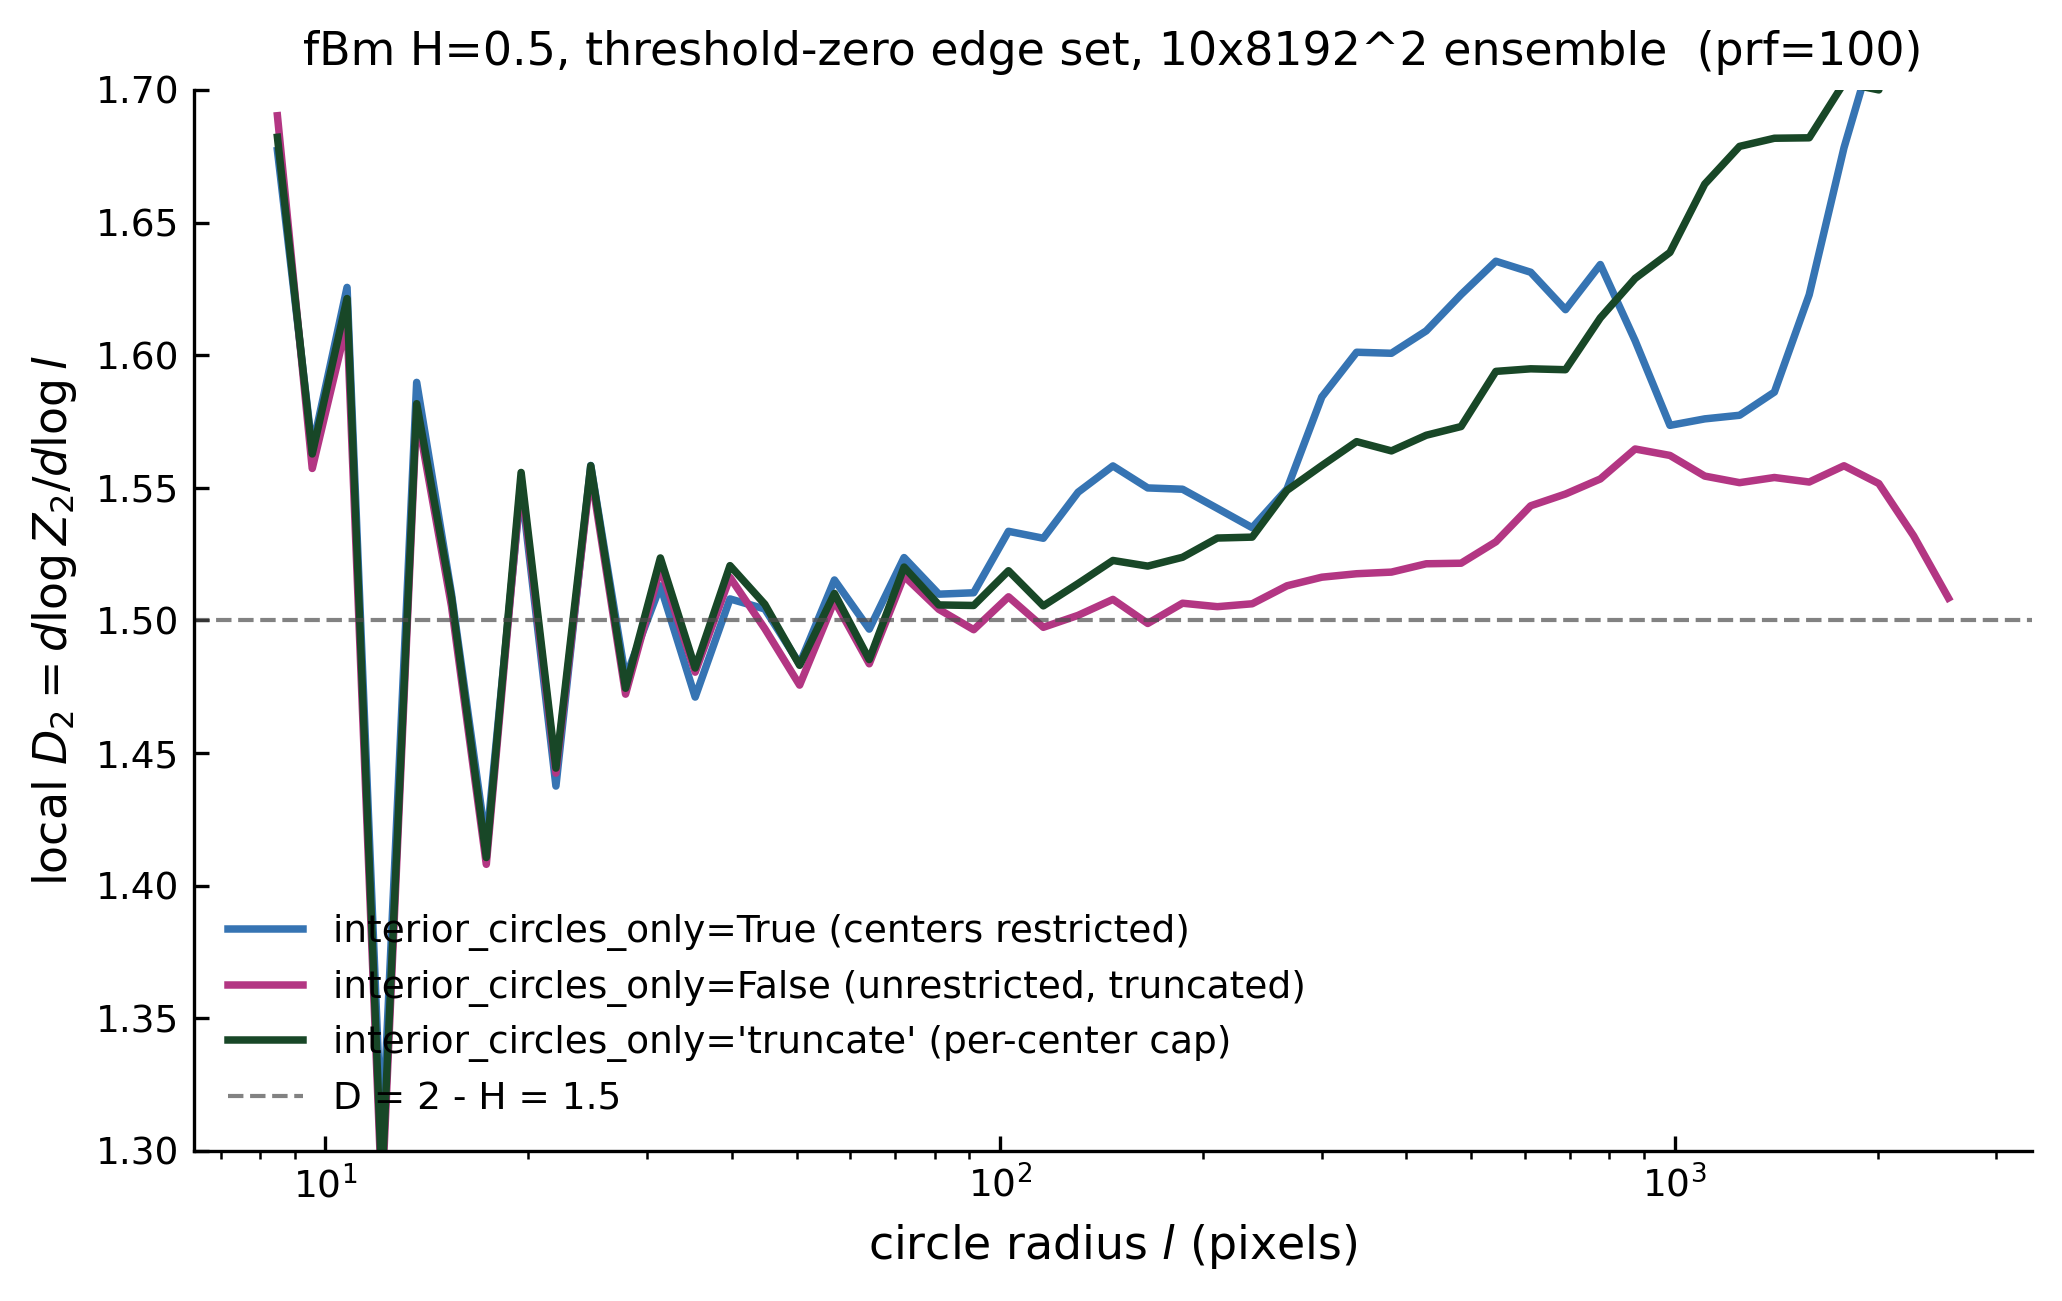
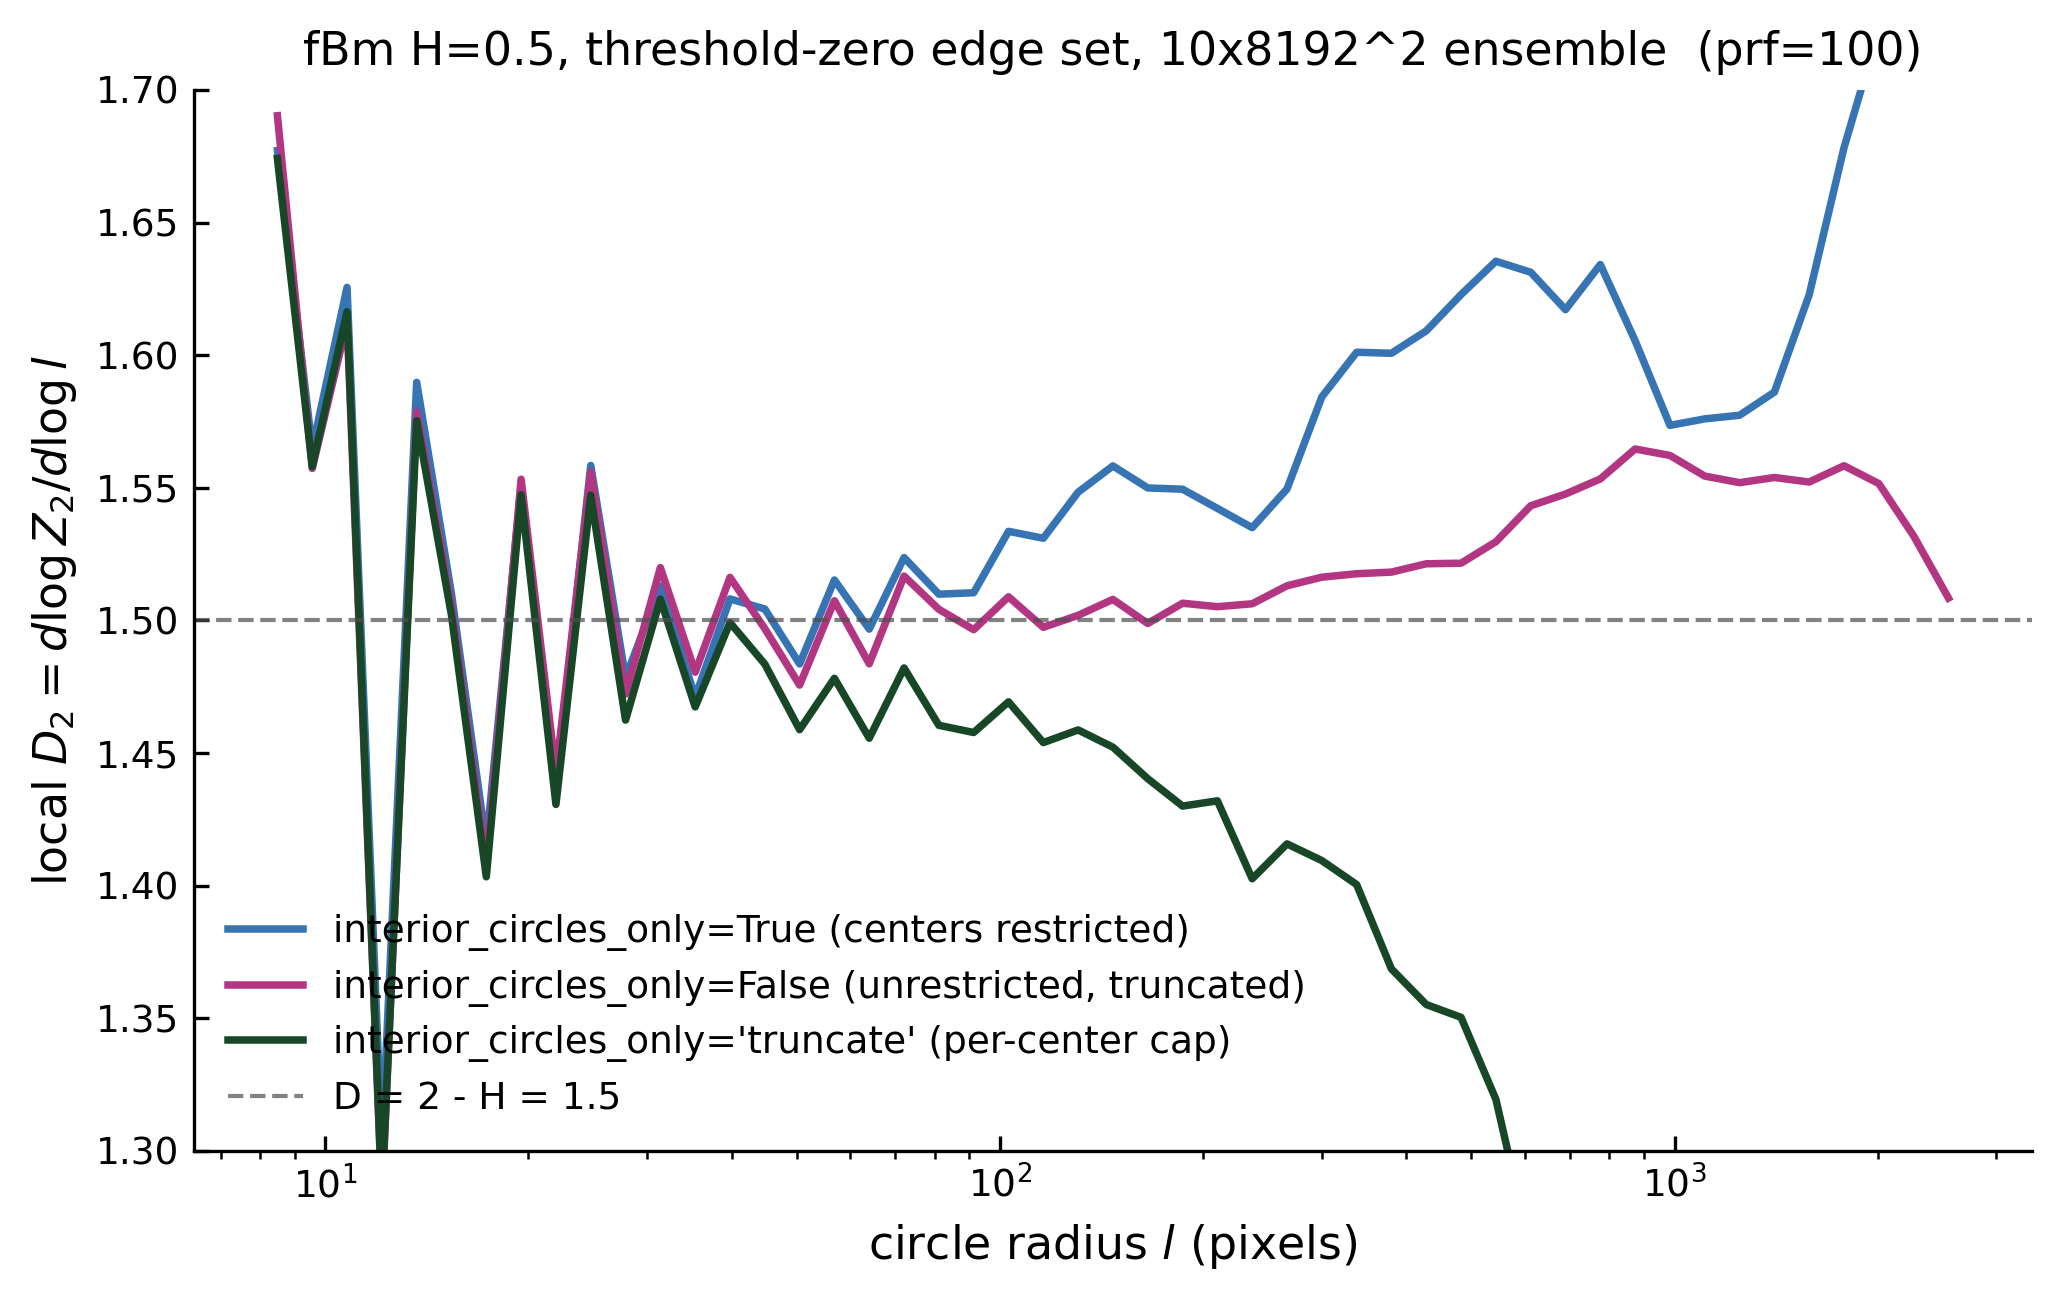
Truncate mode: leave Z as raw count, do not divide by N_per_bin
Previously the wrapper divided Z by per-bin contributing-center count
to recover <M^(q-1)> and a clean (q-1) D_q slope. Per Thomas's
preference, Z now remains a raw partition-function sum in truncate
mode -- so the slope picks up an extra d log N(r) / d log r term that
makes the count effect (more centers admitted at small r, fewer at
large r) visible.

Re-running 10x8192 prf=100 with the change:
  True     : 1.5515 +/- 0.0079   (unchanged)
  False    : 1.5134 +/- 0.0031   (unchanged)
  truncate : 1.3313 +/- 0.0446   (was 1.5449)

The truncate local slope is now ~1.5 at small l and bends sharply
downward as r grows -- the count signature.

diff --git a/objscale/_fractal_dimensions.py b/objscale/_fractal_dimensions.py
@@ -907,12 +907,12 @@ def ensemble_sandbox_renyi_dimension(
           ``M_i(r)`` low at large ``r``.
         * ``'truncate'`` — every set point is used as a center, but each
           center's contribution is capped at radii ``r <= d_edge(center)``,
-          where ``d_edge`` is the distance to the nearest domain edge.
-          Each bin's partition function is then averaged over only the
-          centers admissible at that bin (``Z_q(r) = <M_i(r)^{q-1}>``
-          where the average is over centers with ``r <= d_edge_i``).
-          Recovers small-scale information that ``True`` discards while
-          avoiding the truncation bias of ``False``.
+          where ``d_edge`` is the distance to the nearest domain edge. ``Z``
+          remains a raw sum over admissible centers (no per-bin
+          normalization), so the count-vs-radius signature includes the
+          fact that the contributing-center population shrinks with ``r``;
+          the fitted slope therefore picks up an extra
+          ``d log N(r) / d log r`` term on top of ``(q-1) D_q``.
     nbins : int, default=50
         Number of log-spaced distance bins (used when ``bins`` is None).
     bins : np.ndarray or int, optional
@@ -1148,23 +1148,14 @@ def ensemble_sandbox_renyi_dimension(
         N_per_bin_total += N_chunk
         n_centers_total += n_centers_here
 
-    # 'truncate' mode: per-bin contributing-center count varies with r, so
-    # divide Z by N_per_bin to recover the per-center mean <M^(q-1)>(r).
-    # The slope of log <M^(q-1)> vs log r is then (q-1) D_q for q!=1 and
-    # D_1 for q=1, just like the interior/open paths whose effective
-    # N_per_bin is constant.
-    if boundary_mode == 'truncate':
-        with np.errstate(divide='ignore', invalid='ignore'):
-            for qi in range(Q):
-                Z_total[qi] = np.where(
-                    N_per_bin_total > 0,
-                    Z_total[qi] / np.maximum(N_per_bin_total, 1),
-                    0.0,
-                )
-    elif n_centers_total > 0 and is_q1.any():
-        # Legacy interior/open paths: at q=1 the kernel accumulates
-        # sum_i log10 M_i, which scales as n_centers_total * D_1 * log10(r).
-        # Convert to per-center mean. Apply to every q==1 entry.
+    # All modes: Z is the raw partition-function sum (sum_i M_i^(q-1) for
+    # q!=1, sum_i log10 M_i for q==1). For q==1 we convert to a per-center
+    # mean so the slope vs log r is D_1 directly. In 'truncate' mode the
+    # contributing-center count varies with r; we deliberately do NOT
+    # divide by N_per_bin, since the user wants Z to remain a count and
+    # the resulting d log N(r) / d log r contribution to the slope is
+    # part of the methodological signature of the truncate approach.
+    if n_centers_total > 0 and is_q1.any():
         Z_total[is_q1, :] /= float(n_centers_total)
 
     # ----- linear regression per q -----